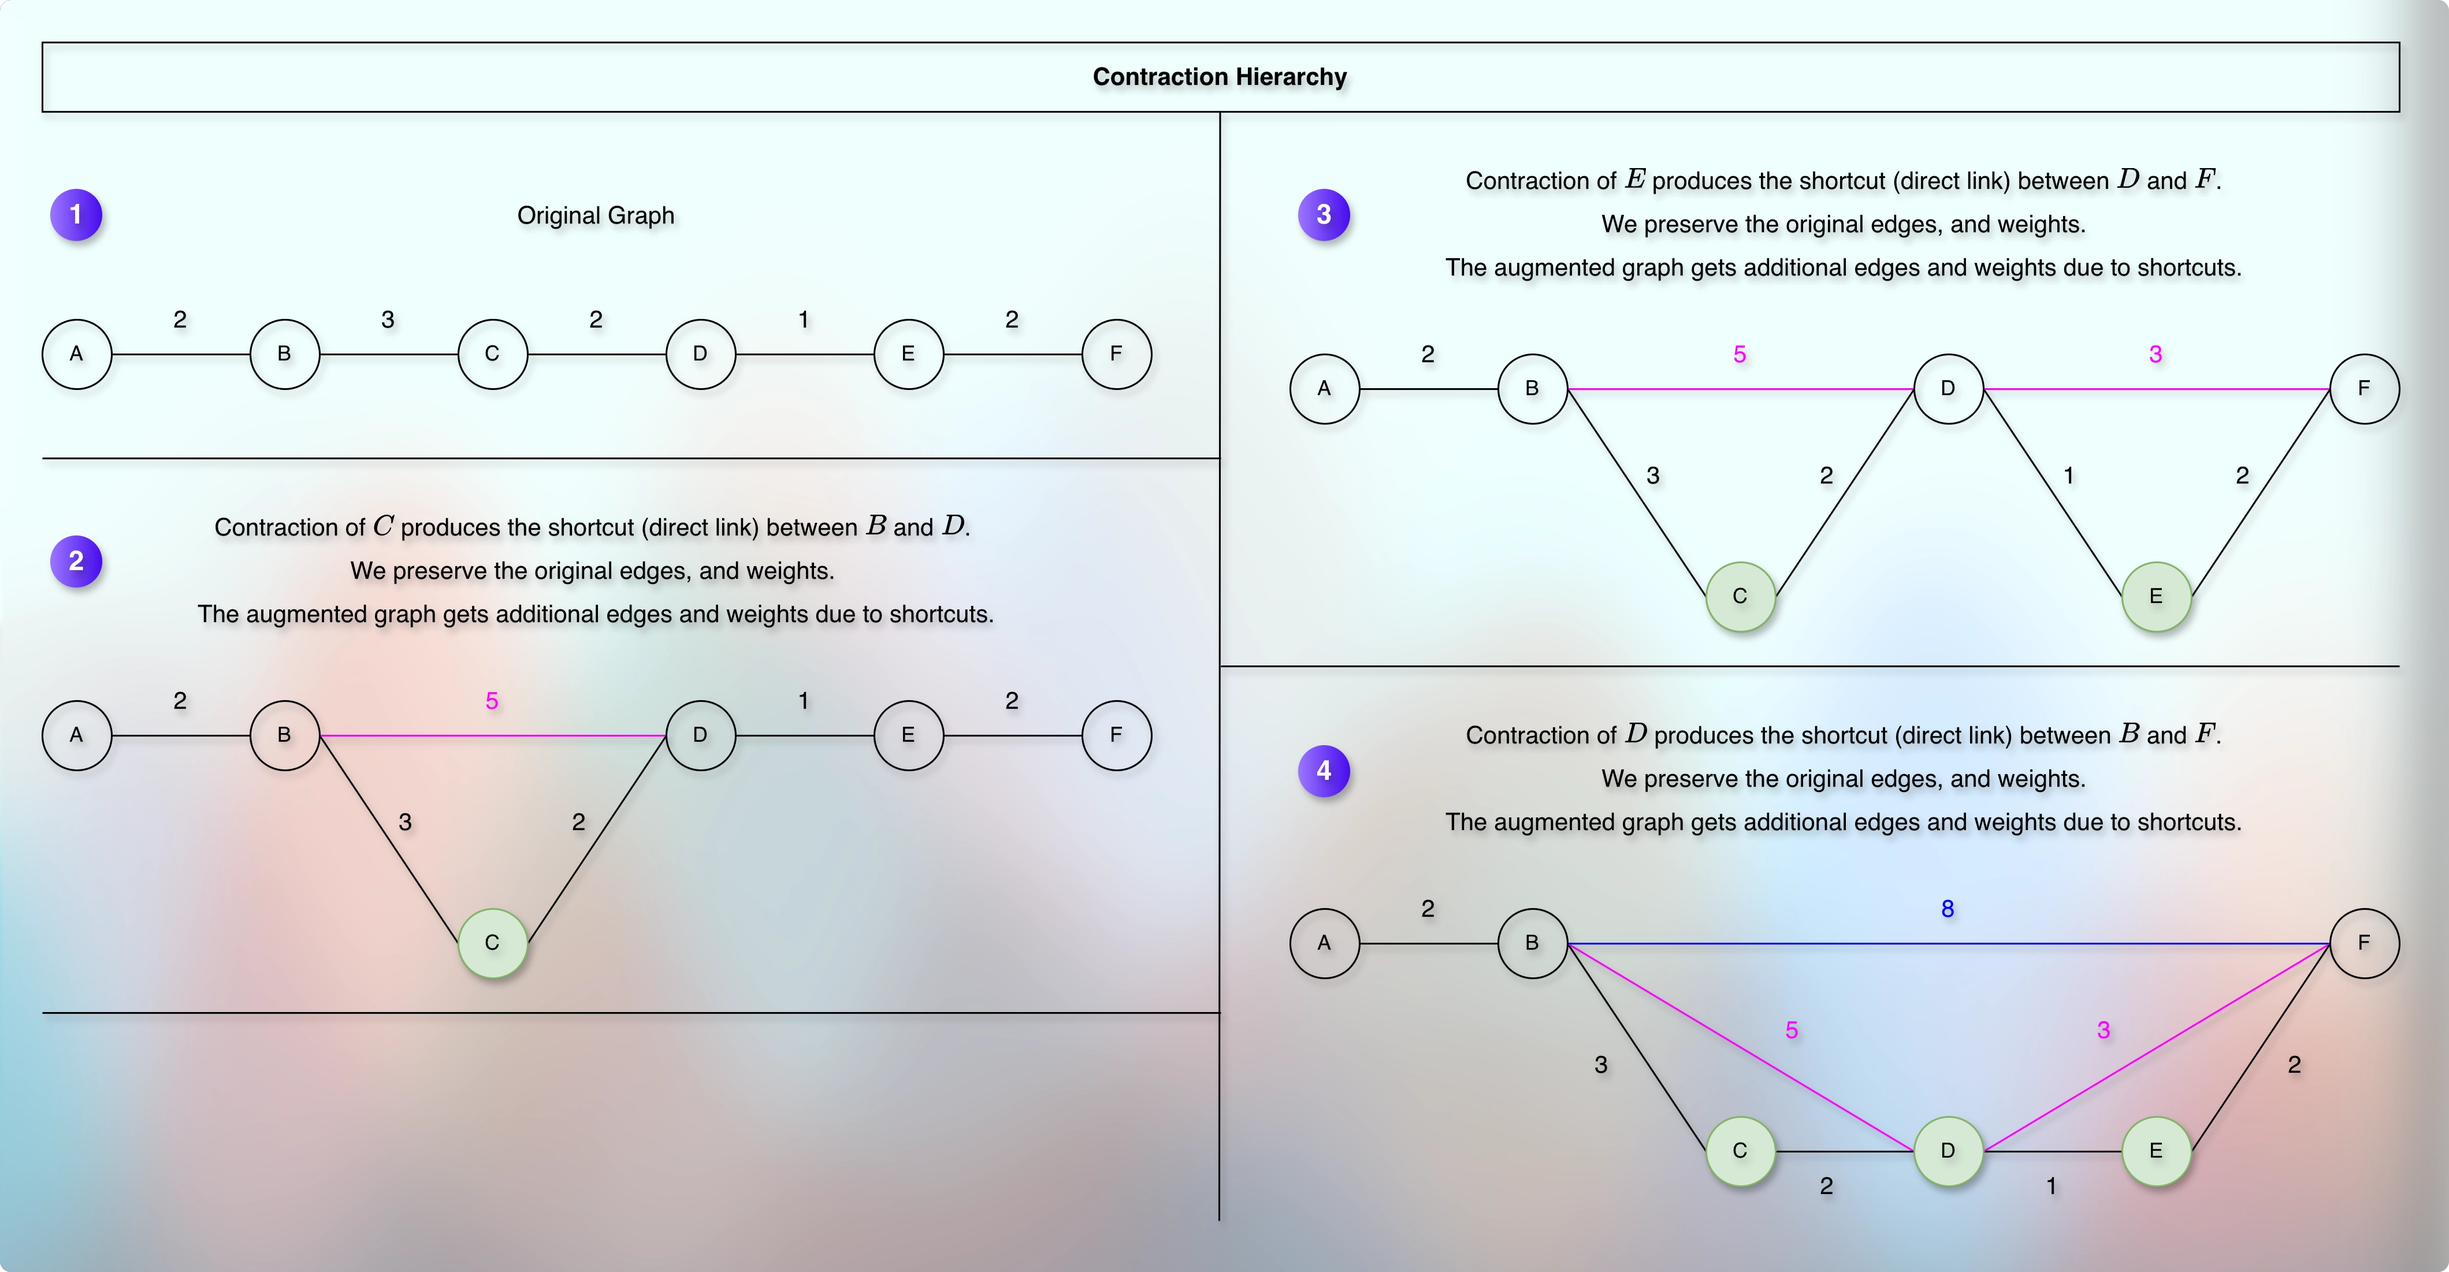
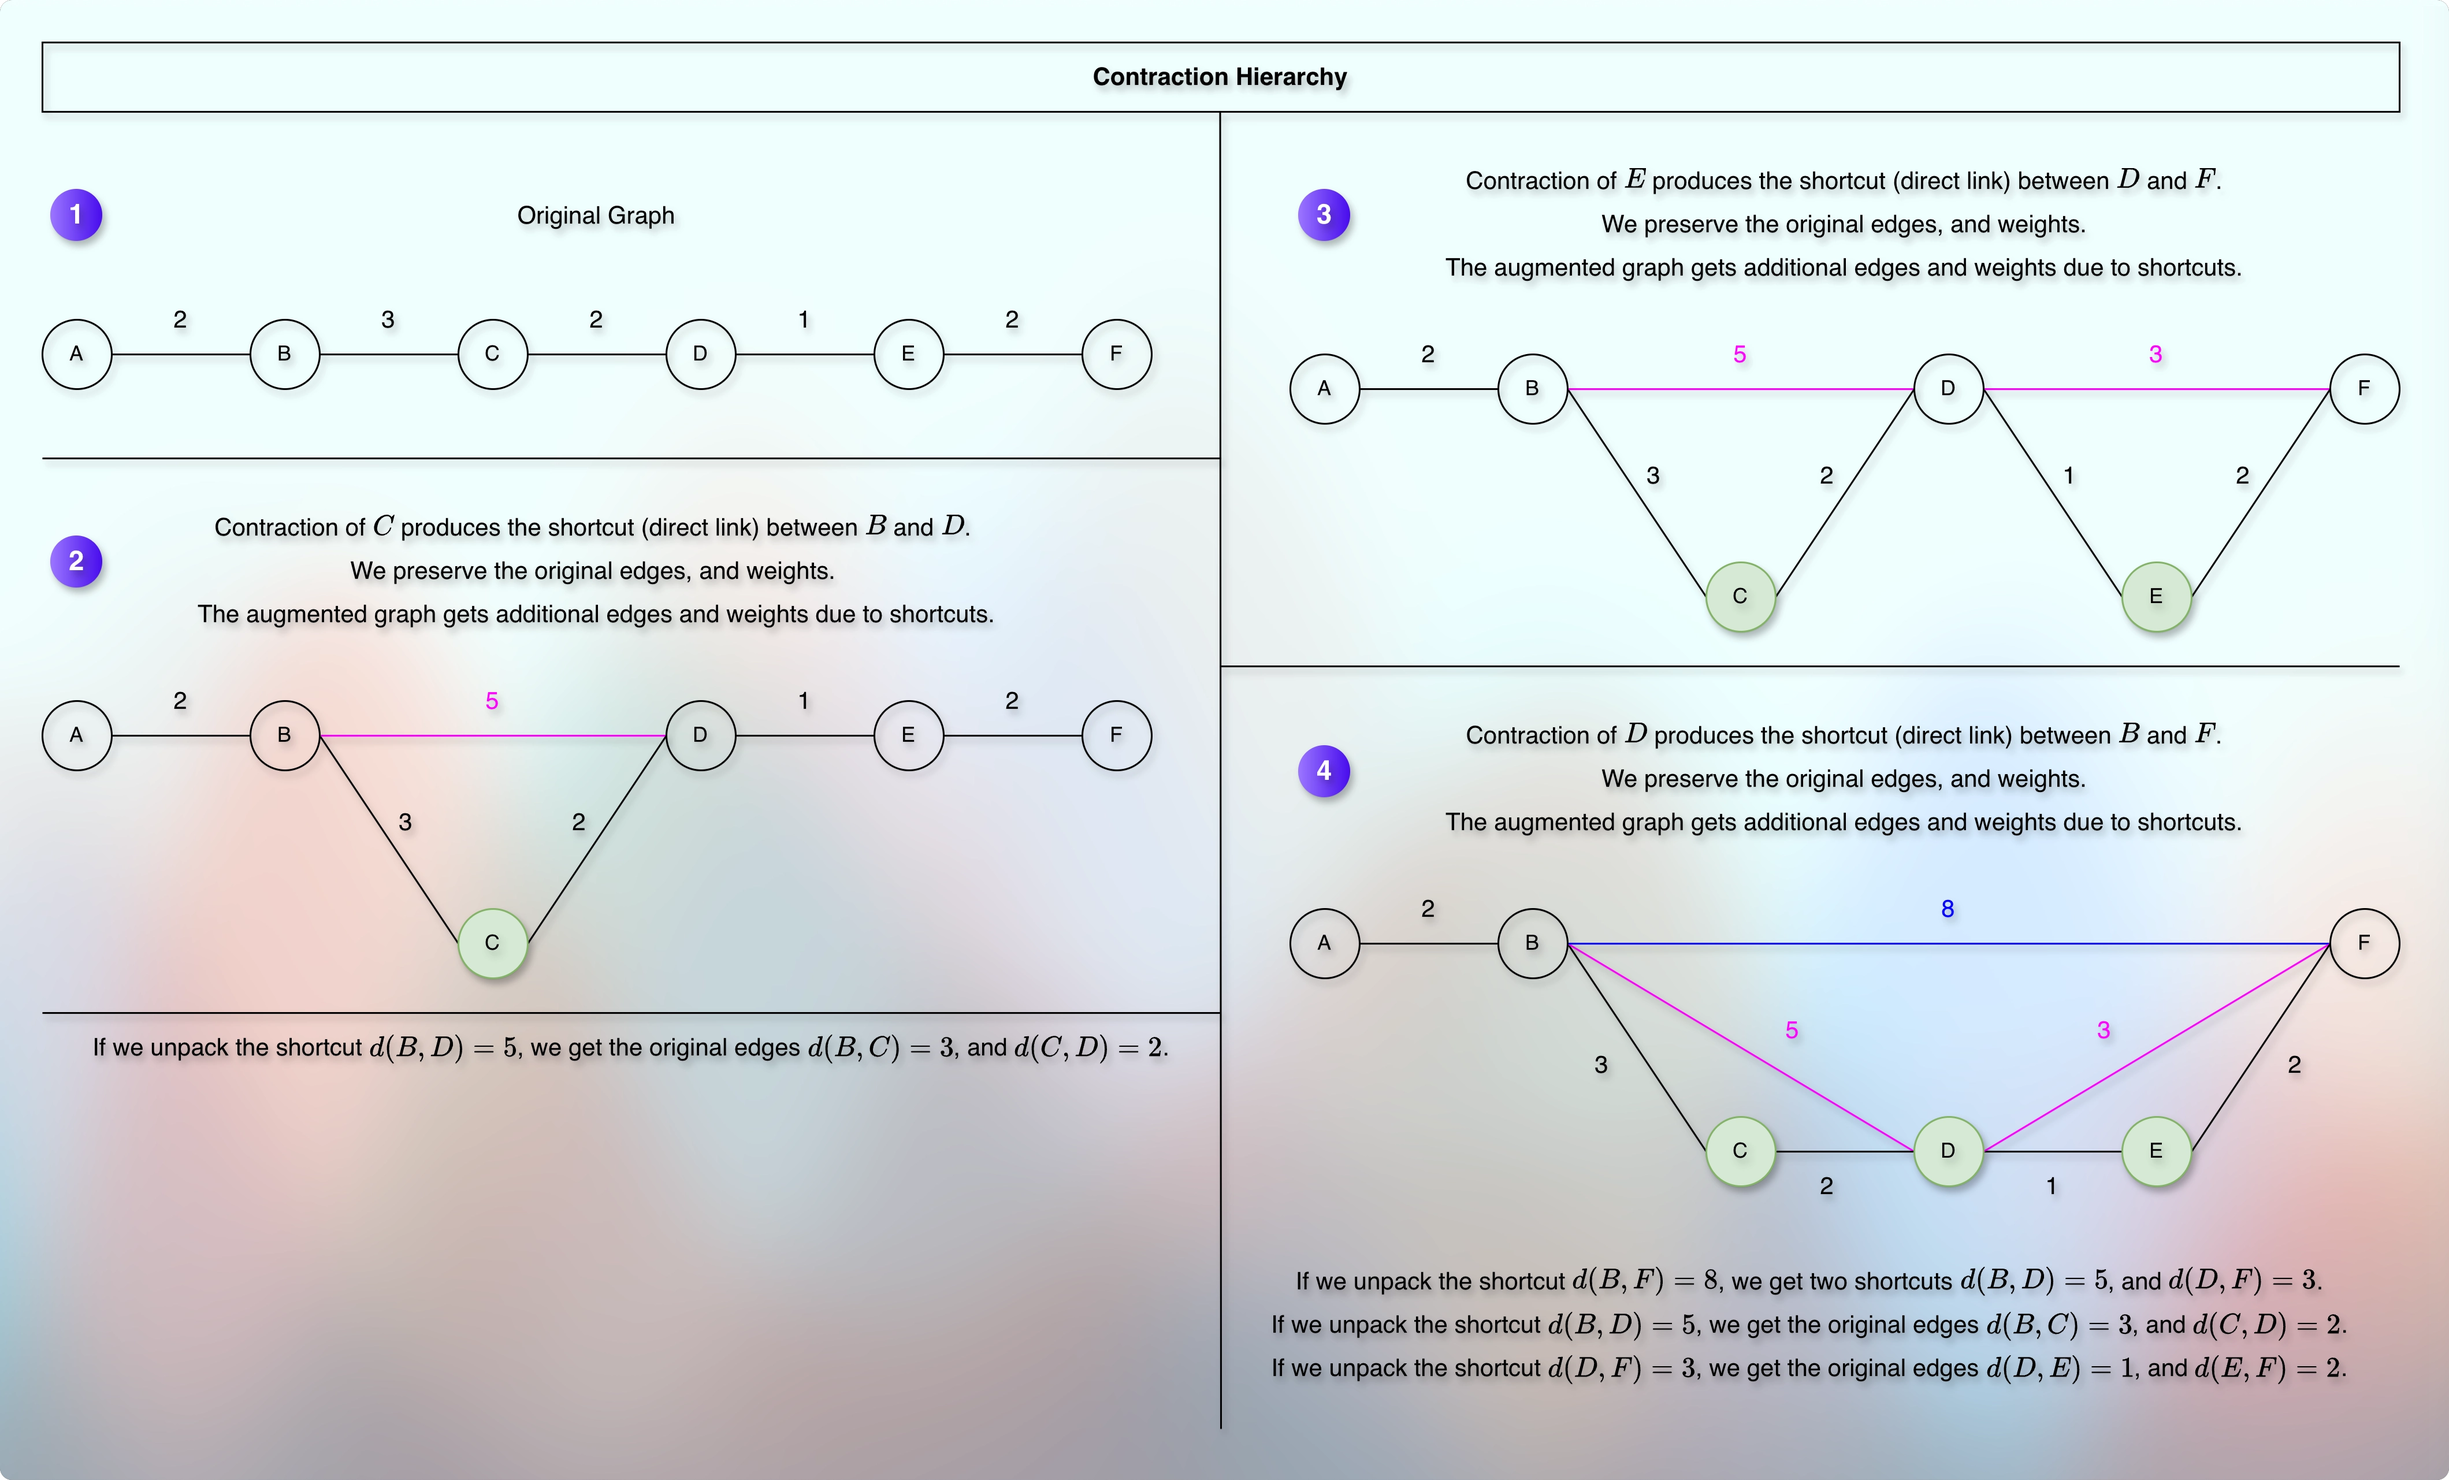
doc(WIP): Continue contraction hierarchies concept in 040contractionHierarchiesAndNodeImportance.md
Took 10 minutes

diff --git a/docs/03graph/courses/uc/module06advancedShortestPathProject/010lectures/040contractionHierarchiesAndNodeImportance.md b/docs/03graph/courses/uc/module06advancedShortestPathProject/010lectures/040contractionHierarchiesAndNodeImportance.md
@@ -168,7 +168,7 @@
 * Once we are done with the preprocessing, we process the actual queries.
 * The query algorithm uses bidirectional Dijkstra.
 * Each query uses ranks.
-* The query algorithm uses the rank to search only in the upward direction from both the end-points (searches).
+* The query algorithm uses the rank to search only in the upward direction (towards the higher ranks) from both the end-points (searches).
 * In this way, we expect to get much smaller search space.
 
 ---
@@ -834,8 +834,14 @@ $$
 
 * 
 
+**What arrangement makes the bidirectional search move upward towards the higher rank? How does this become possible and correct?**
+
+* 
+
 **Why Bidirectional Dijkstra only? Can't we run Bidirectional A-Star on the preprocessed graph?**
 
 *
+
+
 
 Audit this document. What am I missing? What needs to correct? Justify with my explanation preferences.
